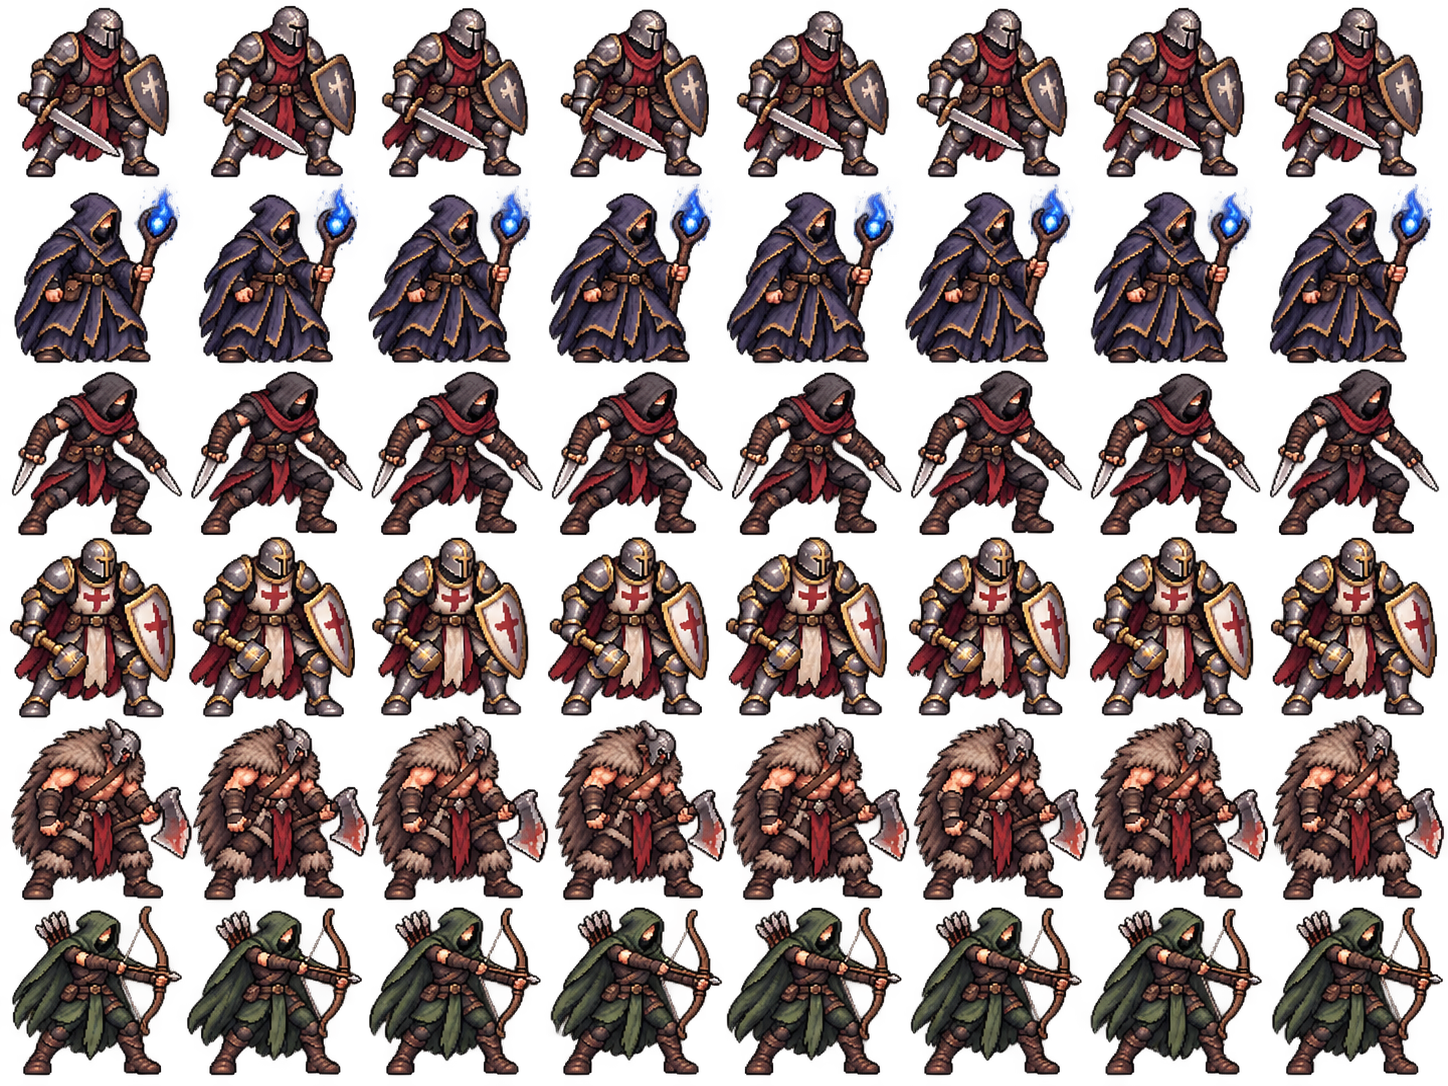
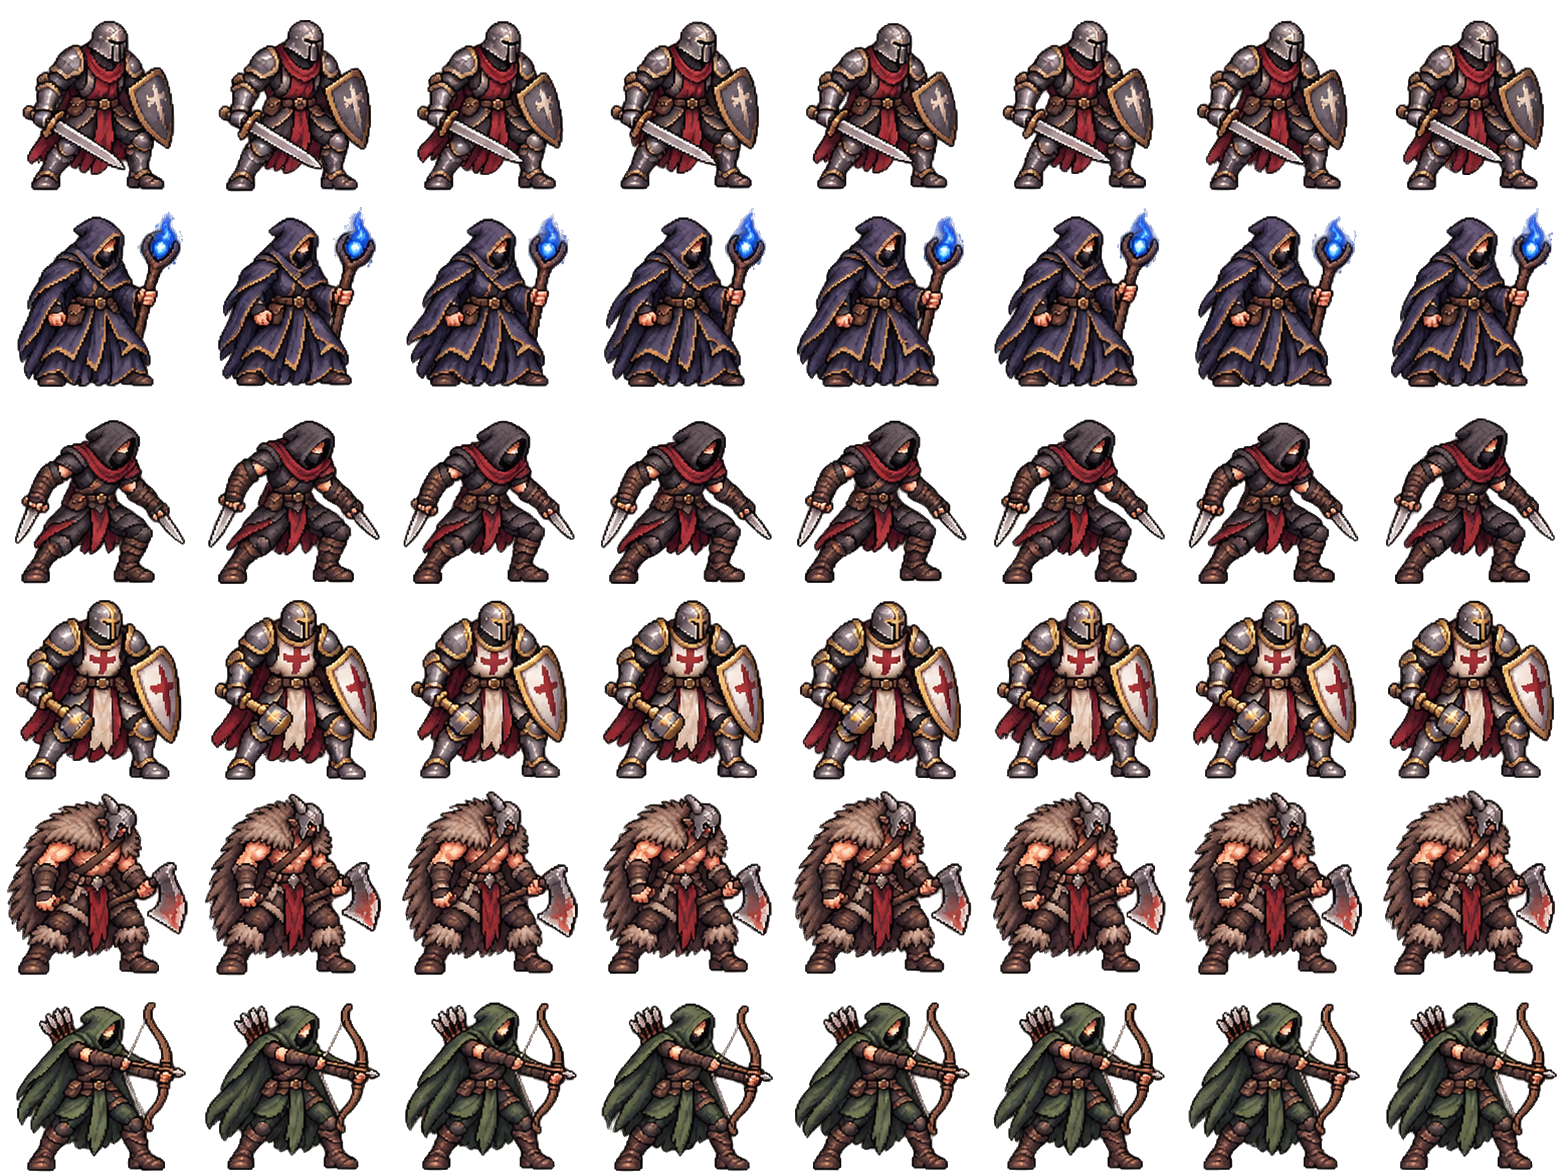
ui: rebuild the hero sheet into even cells, no clipped weapons, no frame jitter
The generated sheet is not on a grid: neighbouring frames overlap and every frame has its own centre, so slicing by a fixed 181 px cell cut off the assassin's knife and the berserk's axe, showed the berserk's horn under the paladin and made every hero twitch between frames. tools/hero-sheet.py finds each figure as an alpha component, aligns the frames of a row to the first one (shift with max IoU, 0-5 px), and packs them into 196 px square cells on a common baseline.

diff --git a/tools/hero-sheet.py b/tools/hero-sheet.py
@@ -1,0 +1,127 @@
+"""Пересборка нарисованного листа героев в ровные ячейки.
+
+Генератор кладёт фигуры не по сетке: соседние кадры залезают друг на друга, а центр у каждого свой,
+поэтому нарезка «по N px» обрезает оружие и заставляет героя дёргаться. Скрипт находит каждую фигуру
+как компоненту альфы, выравнивает кадры ряда по маске первого (перебор сдвига, максимум IoU), кладёт
+их в квадратные ячейки одного размера с общей линией ног и пишет лист в src/assets/heroes-idle.png.
+
+    python tools/hero-sheet.py <лист.png> [--rows 6] [--cols 8] [--overlay overlay.png]
+
+overlay.png — отладочный лист: все кадры героя полупрозрачно друг на друге, видно остаточное дрожание.
+Нужны numpy, Pillow, scipy.
+"""
+import argparse
+from pathlib import Path
+
+import numpy as np
+from PIL import Image
+from scipy import ndimage
+
+MIN_AREA = 500  # компоненты мельче — мусор генератора
+SEARCH = 22     # диапазон сдвига при выравнивании, px
+MARGIN = 4      # поле ячейки
+ALPHA = 40      # порог альфы
+
+ap = argparse.ArgumentParser()
+ap.add_argument('src')
+ap.add_argument('--rows', type=int, default=6)
+ap.add_argument('--cols', type=int, default=8)
+ap.add_argument('--out', default=str(Path(__file__).resolve().parent.parent / 'src' / 'assets' / 'heroes-idle.png'))
+ap.add_argument('--overlay')
+args = ap.parse_args()
+ROWS, COLS = args.rows, args.cols
+
+rgba = np.array(Image.open(args.src).convert('RGBA'))
+lab, _ = ndimage.label(rgba[:, :, 3] > ALPHA)
+comps = []
+for i, sl in enumerate(ndimage.find_objects(lab), 1):
+    if int((lab[sl] == i).sum()) < MIN_AREA:
+        continue
+    ys, xs = sl
+    comps.append(dict(id=i, x0=xs.start, y0=ys.start, x1=xs.stop, y1=ys.stop, cy=(ys.start + ys.stop) / 2))
+assert len(comps) == ROWS * COLS, f'фигур {len(comps)}, ждали {ROWS * COLS}: слиплись или порваны'
+
+comps.sort(key=lambda c: c['cy'])
+rows = [sorted(comps[r * COLS:(r + 1) * COLS], key=lambda c: c['x0']) for r in range(ROWS)]
+
+
+def cut(c):
+    """RGBA-кадр только из пикселей своей компоненты: соседи, залезшие в bbox, обнуляются."""
+    sl = (slice(c['y0'], c['y1']), slice(c['x0'], c['x1']))
+    px = rgba[sl].copy()
+    px[lab[sl] != c['id']] = 0
+    return px
+
+
+def best_shift(ref, m):
+    """Сдвиг маски m, при котором IoU с ref максимален."""
+    best, bs = -1.0, (0, 0)
+    H, W = ref.shape
+    for dy in range(-SEARCH, SEARCH + 1):
+        for dx in range(-SEARCH, SEARCH + 1):
+            sh = np.zeros_like(m)
+            ys, yd = (slice(0, H - dy), slice(dy, H)) if dy >= 0 else (slice(-dy, H), slice(0, H + dy))
+            xs, xd = (slice(0, W - dx), slice(dx, W)) if dx >= 0 else (slice(-dx, W), slice(0, W + dx))
+            sh[yd, xd] = m[ys, xs]
+            iou = np.logical_and(ref, sh).sum() / np.logical_or(ref, sh).sum()
+            if iou > best:
+                best, bs = iou, (dx, dy)
+    return bs, best
+
+
+PAD = SEARCH + 8
+frames = []
+for r in range(ROWS):
+    cuts = [cut(c) for c in rows[r]]
+    FH = max(p.shape[0] for p in cuts) + 2 * PAD
+    FW = max(p.shape[1] for p in cuts) + 2 * PAD
+
+    def field(p, dx=0, dy=0):
+        f = np.zeros((FH, FW, 4), np.uint8)
+        y = FH - PAD - p.shape[0] + dy
+        x = (FW - p.shape[1]) // 2 + dx
+        f[y:y + p.shape[0], x:x + p.shape[1]] = p
+        return f
+
+    ref = field(cuts[0])
+    refm = ref[:, :, 3] > ALPHA
+    row_frames, shifts = [ref], [(0, 0)]
+    for k in range(1, COLS):
+        (dx, dy), iou = best_shift(refm, field(cuts[k])[:, :, 3] > ALPHA)
+        row_frames.append(field(cuts[k], dx, dy))
+        shifts.append((dx, dy, round(float(iou), 3)))
+    print('ряд', r, 'сдвиги', shifts)
+    frames.append(row_frames)
+
+boxes = []
+for r in range(ROWS):
+    m = np.any(np.stack([f[:, :, 3] > ALPHA for f in frames[r]]), axis=0)
+    ys, xs = np.nonzero(m)
+    boxes.append((xs.min(), ys.min(), xs.max() + 1, ys.max() + 1))
+S = max(max(b[2] - b[0], b[3] - b[1]) for b in boxes) + 2 * MARGIN
+S = (S + 3) // 4 * 4
+print('ячейка', S)
+
+sheet = np.zeros((ROWS * S, COLS * S, 4), np.uint8)
+overlay = np.zeros_like(sheet)
+for r in range(ROWS):
+    bx0, by0, bx1, by1 = boxes[r]
+    bw, bh = bx1 - bx0, by1 - by0
+    ox, oy = (S - bw) // 2, S - MARGIN - bh
+    for k in range(COLS):
+        y, x = r * S + oy, k * S + ox
+        sheet[y:y + bh, x:x + bw] = frames[r][k][by0:by1, bx0:bx1]
+        if args.overlay:
+            for f in frames[r]:
+                c = f[by0:by1, bx0:bx1].astype(np.uint16)
+                c[:, :, 3] //= COLS
+                cell = overlay[y:y + bh, x:x + bw].astype(np.uint16)
+                cell[:, :, :3] = np.maximum(cell[:, :, :3], c[:, :, :3] * (c[:, :, 3:4] > 0))
+                cell[:, :, 3] = np.minimum(255, cell[:, :, 3] + c[:, :, 3])
+                overlay[y:y + bh, x:x + bw] = cell.astype(np.uint8)
+
+Image.fromarray(sheet).save(args.out, optimize=True)
+print('записан', args.out, sheet.shape[1], 'x', sheet.shape[0])
+if args.overlay:
+    Image.fromarray(overlay).save(args.overlay)
+    print('наложение', args.overlay)

diff --git a/docs/GDD.md b/docs/GDD.md
@@ -870,7 +870,7 @@ ATK = урон оружия + STR. Дальность приёма по цели
 
 ## 13. Статус
 
-v0.41: **рисованные спрайты героев с анимацией покоя.** Шесть героев получили нарисованный лист `src/assets/heroes-idle.png` (6 рядов × 8 кадров, ячейка 181×181) вместо процедурных 16×16: `heroSprite(id, px)` в sprites.ts рисует квадрат с листом фоном, кадры листает CSS `.hero-idle` (`steps(8)`, 1.6 с на цикл — тот же темп, что у прежнего покачивания `.bob`, которое у героев снято). Ряд героя задаёт `--row`, размер — `--px`, так что одна разметка работает на всех размерах (44 в консоли, 64 и 112 на выборе героя, 80 в листе персонажа, 104/128 в бою, 112 на итогах). Лист нарисован без пиксельной сетки, поэтому у героев уменьшение со сглаживанием, а не `pixelated`. `SpriteSpec` героя в данных остаётся: из него fx.ts берёт цвет клинка для взмаха. Враги и союзники не тронуты. Баланс не менялся, бот не гонялся.
+v0.41: **рисованные спрайты героев с анимацией покоя.** Шесть героев получили нарисованный лист `src/assets/heroes-idle.png` (6 рядов × 8 кадров, ячейка 196×196) вместо процедурных 16×16. Лист от генератора пересобирает `tools/hero-sheet.py`: сырой лист нарисован не по сетке (фигуры соседних кадров залезают друг на друга, центр у каждого свой — нарезка по фиксированной ячейке обрезала оружие и заставляла героя дёргаться), скрипт находит каждую фигуру как компоненту альфы, выравнивает кадры ряда по маске первого (сдвиг с максимумом IoU, вышло 0–5 px) и кладёт их в квадратные ячейки с общей линией ног. `heroSprite(id, px)` в sprites.ts рисует квадрат с листом фоном, кадры листает CSS `.hero-idle` (`steps(8)`, 1.6 с на цикл — тот же темп, что у прежнего покачивания `.bob`, которое у героев снято). Ряд героя задаёт `--row`, размер — `--px`, так что одна разметка работает на всех размерах (44 в консоли, 64 и 112 на выборе героя, 80 в листе персонажа, 104/128 в бою, 112 на итогах). Лист нарисован без пиксельной сетки, поэтому у героев уменьшение со сглаживанием, а не `pixelated`. `SpriteSpec` героя в данных остаётся: из него fx.ts берёт цвет клинка для взмаха. Враги и союзники не тронуты. Баланс не менялся, бот не гонялся.
 
 v0.40.5: **три правки по просьбе пользователя.** (1) **Взрыв пламени** режет множители пула с ×1 / 1.5 / 2 до **×1 / 1.25 / 1.5** — та же лесенка, что у Вскрытия. Приём собирает всё оставшееся Горение со всех врагов и бьёт этой суммой каждого, то есть выхлоп растёт квадратом от числа горящих: три врага с Горением 3 на 2 хода — это пул 18, по 36 каждому, 108 суммарного урона за 2 MP; после правки 81. Первый тир не тронут: там взрыв и так ровно «что нагорело». (2) **Огненная склянка** — 5 урона всем вместо 8, зато Горение 3 на 2 хода каждому: суммарно 11 против 8, но половина идёт мимо блока и с задержкой, а склянка превращается из аварийной кнопки в заводку огня (Взрыв пламени, Раздуть, Резонанс). (3) **Статистика перезапрашивается на каждом заходе** на экран — см. §8.5.
 

diff --git a/CLAUDE.md b/CLAUDE.md
@@ -62,12 +62,13 @@ src/ui/       рендер и клики
   preview.ts    ридаут, подсветка целей (ok/far) и штриховка предпросмотра урона в бою (пишет в DOM без перерисовки, покой — по app.armed); diff.ts — дельты к надетому в карточках
   fx.ts         типовые анимации боя: planHeroFx/planEnemyFx (план до применения действия), playShots (снаряды на старом поле, возвращает impact), playAfter/eventFx (облако дебафа, свечение бафа, щит блока перед бойцом, глоток); спрайты снарядов процедурные
   hotkeys.ts    1–9, Space, C, L, Esc; на экране пула награды 1/2 — Нападение/Защита
-  sprites.ts, backgrounds.ts, icons.ts   процедурная пиксель-графика (data URL) врагов и союзников; герои (v0.41) — рисованный лист src/assets/heroes-idle.png (6 рядов × 8 кадров покоя), heroSprite(id, px) + CSS .hero-idle листает кадры, SpriteSpec героя в данных остаётся ради цвета клинка в fx.ts; в icons.ts, кроме иконок статусов, метки удара markIcon('pierce' | 'drain') — тот же шаблон 8×8 с автоконтуром
+  sprites.ts, backgrounds.ts, icons.ts   процедурная пиксель-графика (data URL) врагов и союзников; герои (v0.41) — рисованный лист src/assets/heroes-idle.png (6 рядов × 8 кадров покоя, ячейка 196), heroSprite(id, px) + CSS .hero-idle листает кадры, SpriteSpec героя в данных остаётся ради цвета клинка в fx.ts. Сырой лист от генератора НЕ резать по сетке — собирать `python tools/hero-sheet.py <лист.png> --overlay o.png` (фигуры по альфе, выравнивание кадров, общая линия ног); в icons.ts, кроме иконок статусов, метки удара markIcon('pierce' | 'drain') — тот же шаблон 8×8 с автоконтуром
   save.ts       localStorage: забег (mv_run_v1, сброс при смене SAVE_VERSION) и профиль (mv_profile_v1, переживает версии; статистика, коллекция, бестиарий — recordFinds/recordEnemies из App.render()); playerId — анонимный id для статистики; sigPick/unlocks и signatureUnlocked/pickedSignature — выбор и открытие второго персонального артефакта (heroWins[id] > 0 или отладочный mv.unlockAll())
   telemetry.ts  reportRun(run, event, profile): STATS_URL (адрес веб-приложения Apps Script, пусто — не шлём), отсечка localhost/домашней сети (кроме &stats=1), пометка debug, fetch no-cors keepalive; fetchRuns() — GET ?data=runs для экрана «Статистика», читается и с localhost; своего кэша нет с v0.40.5 (запрос на каждом заходе, кэширует сам Apps Script), dropRunsCache() чистит ключ mv_runs_v1 прежних версий
 src/main.ts   монтирование, масштаб кадра 960×540, разбор debug-параметров URL
 src/style.css один файл, секции /* ─── … */
 tests/        vitest; sim/bot.ts — умный бот (W — веса оценки, planTurn, playRun, chooseReward; chooseFocus — пул награды по сокетам и тиру предмета, вес W.focusSocket)
+tools/hero-sheet.py         пересборка нарисованного листа героев в ровные ячейки (numpy, Pillow, scipy): python tools/hero-sheet.py <лист.png> --overlay o.png → src/assets/heroes-idle.png
 tools/apps-script/Code.gs   приёмник статистики: отдельный проект с SPREADSHEET_ID (таблица «Monster Versus Metrics» в Drive пользователя), лист runs, колонки по ключам записи (новый ключ — новая колонка справа); GET ?data=runs отдаёт последние 2000 без отладочных и без player/detail
 ```
 
